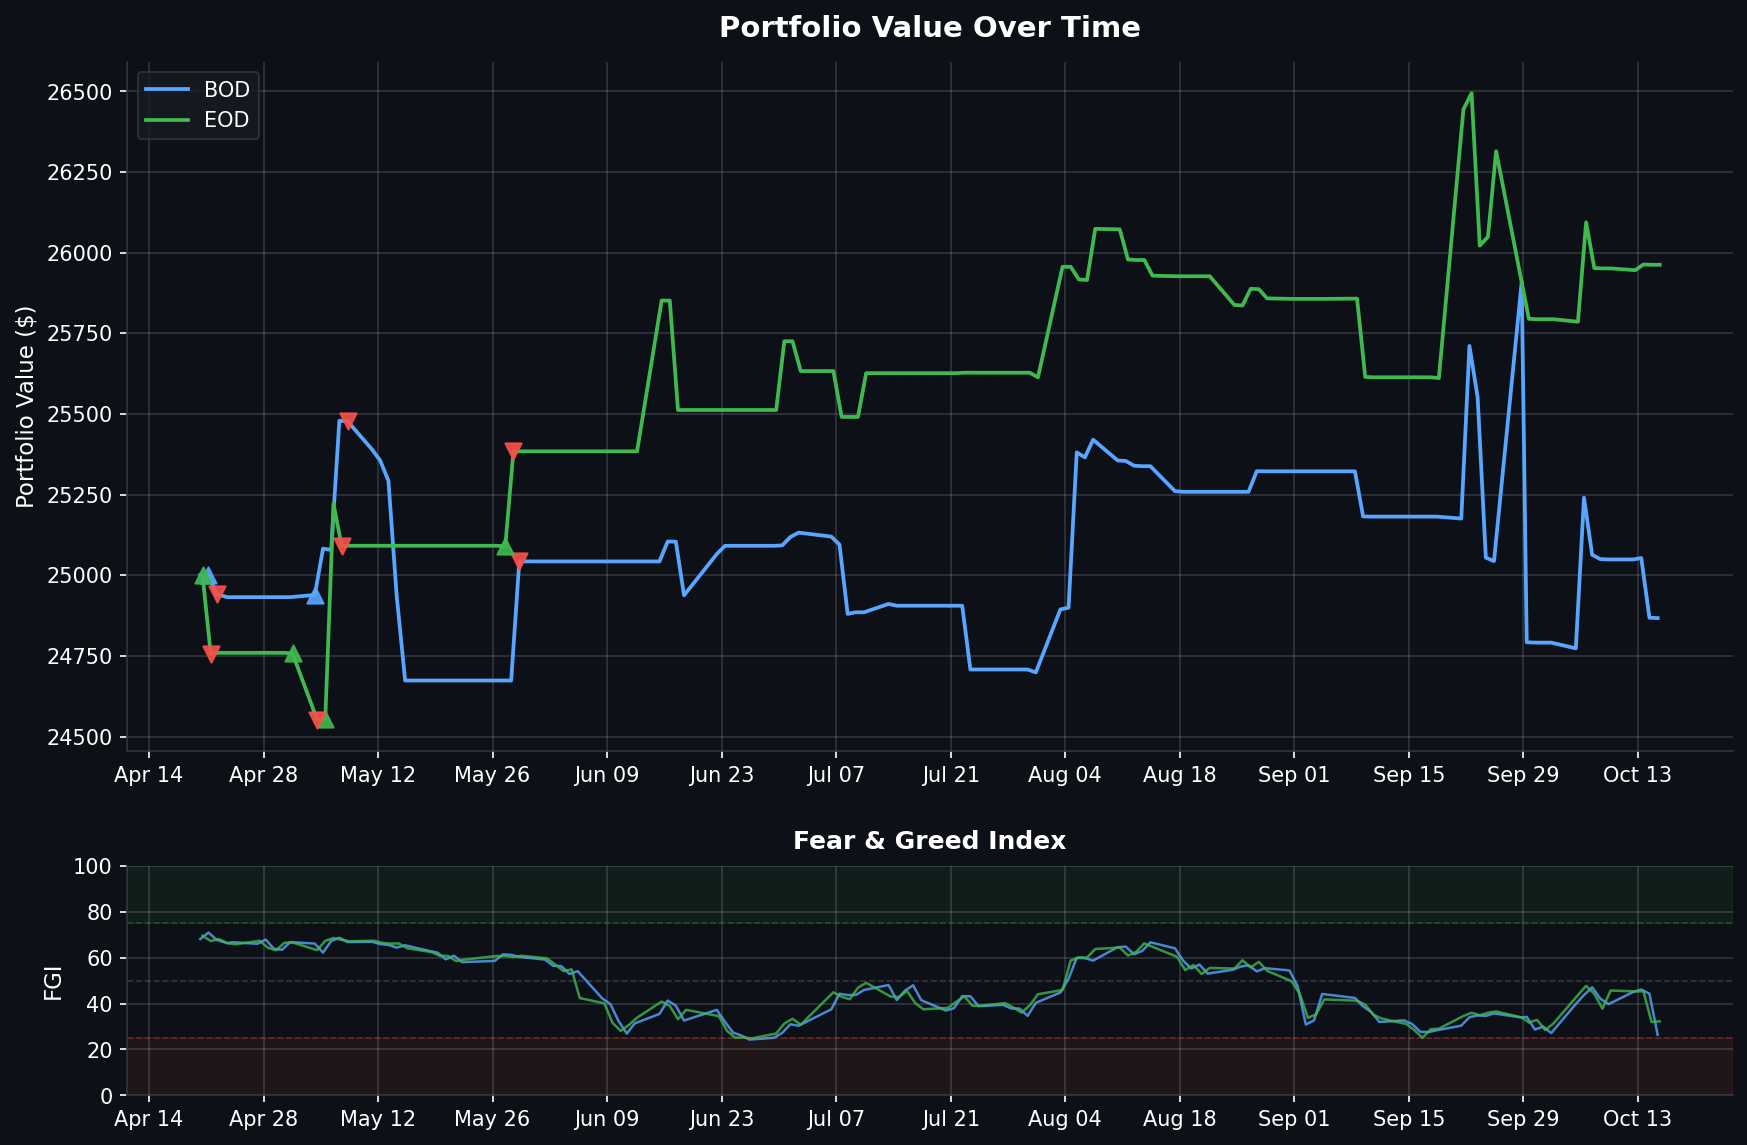
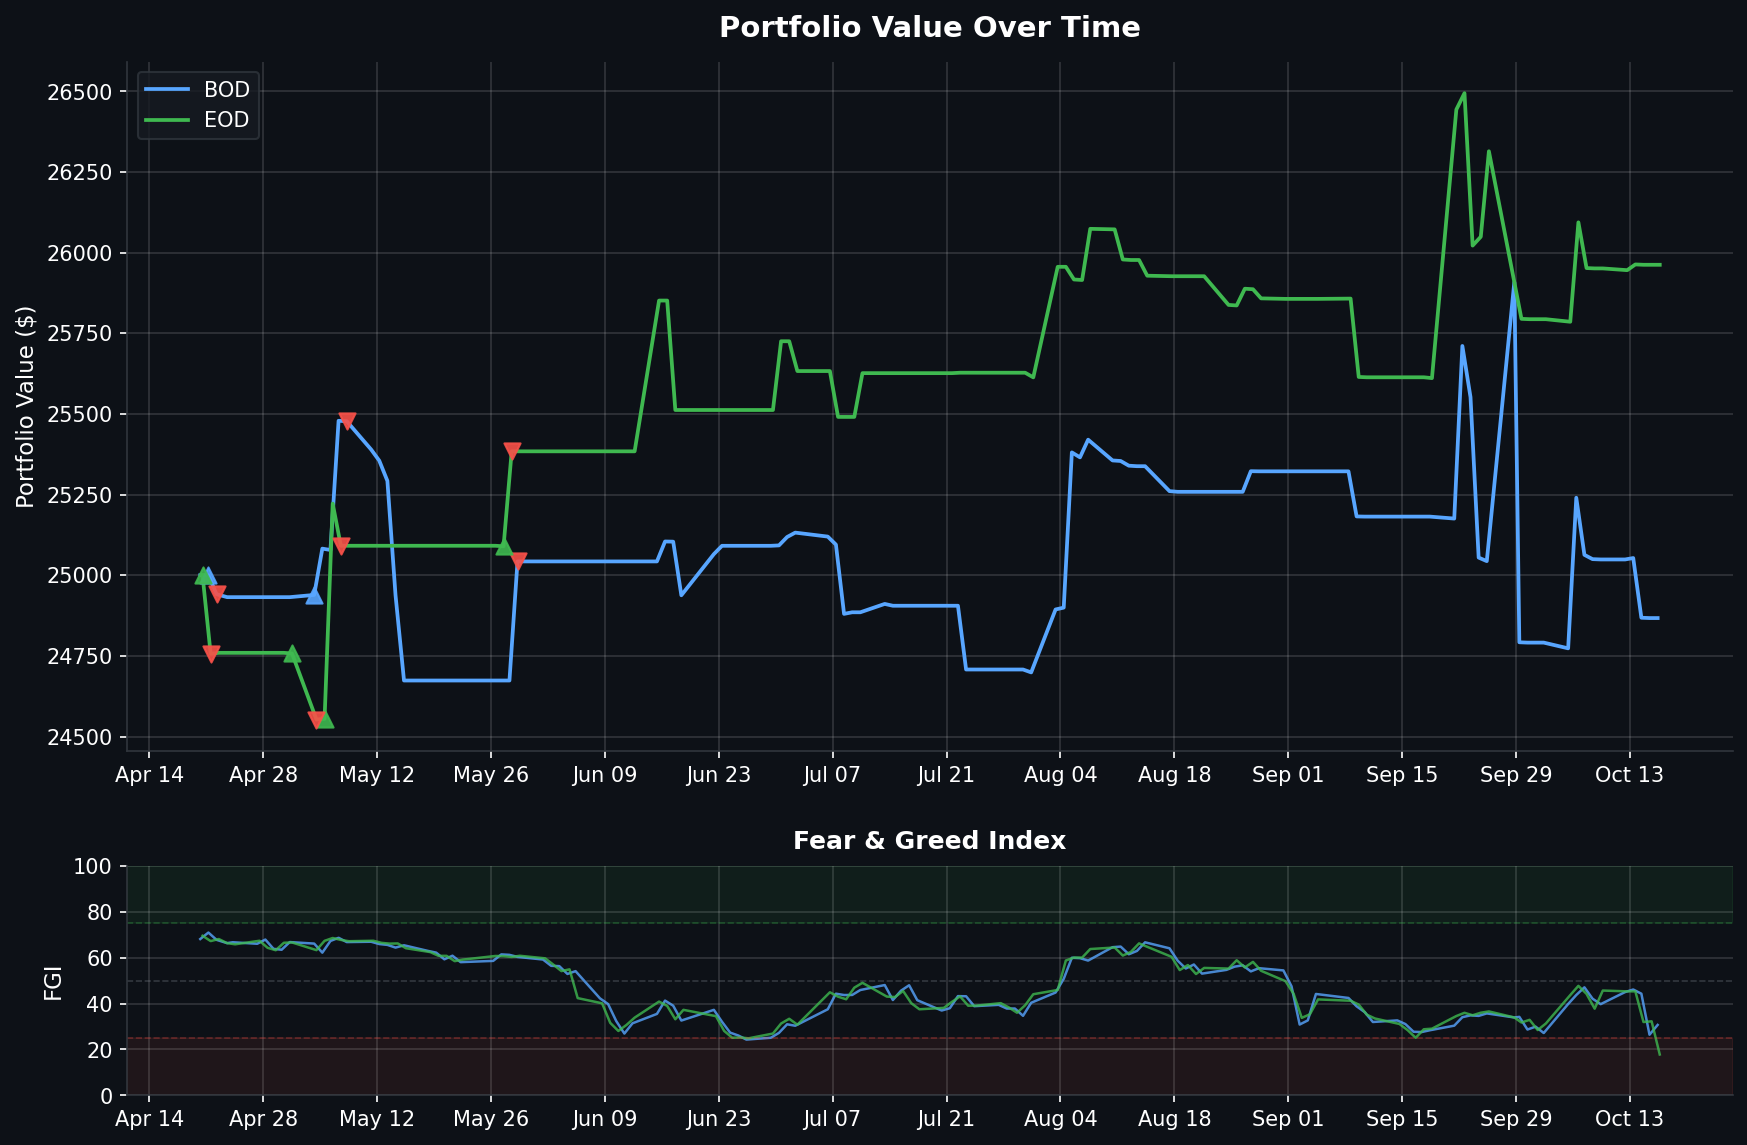
Daily data backup 2026-10-16

diff --git a/README.md b/README.md
@@ -1,6 +1,6 @@
 # Fear & Greed Index Trading Bot
 
-> Dashboard auto-updated daily at market close | Last update: **2026-10-15 13:30 PST**
+> Dashboard auto-updated daily at market close | Last update: **2026-10-16 13:30 PST**
 
 ![Portfolio Performance](assets/portfolio_chart.png)
 
@@ -12,12 +12,12 @@
 |--------|-------|
 | Portfolio Value | **$24,867.22** |
 | Buying Power | $99,468.88 |
-| Current FGI | 26.43 |
+| Current FGI | 30.69 |
 | Position | FLAT |
 | Total P&L | **$+995** |
 | Win Rate | 50% (1W / 1L) |
 | Total Round Trips | 2 |
-| Last Signal | NO_ACTION @ 2026-10-15 09:35 |
+| Last Signal | NO_ACTION @ 2026-10-16 09:35 |
 
 <details>
 <summary>Trade History (2 trades)</summary>
@@ -34,11 +34,11 @@
 
 | Time | Action | Price | FGI | Momentum | Velocity | Volatility | Reason |
 |------|--------|-------|-----|----------|----------|------------|--------|
+| 10-16 09:35 | NO_ACTION | $772.30 | 30.69 | -3.11 | -5.14 | 0.0963 | Insufficient momentum/velocity for entry |
 | 10-15 09:35 | NO_ACTION | $765.60 | 26.43 | -12.51 | -6.19 | 0.0978 | Insufficient momentum/velocity for entry |
 | 10-14 09:35 | NO_ACTION | $775.04 | 44.29 | -0.84 | 1.52 | 0.0957 | SELL incomplete - still holding 62 after 5 attempts |
 | 10-13 09:36 | NO_ACTION | $777.67 | 46.11 | 2.49 | 1.33 | 0.0964 | BUY did not fill after 3 attempts |
 | 10-12 09:35 | NO_ACTION | $778.58 | 45.0 | 2.72 | -0.69 | 0.0982 | Insufficient momentum/velocity for entry |
-| 10-09 09:35 | NO_ACTION | $776.56 | 39.74 | -3.23 | -1.32 | 0.0989 | Insufficient momentum/velocity for entry |
 
 </details>
 
@@ -50,12 +50,12 @@
 |--------|-------|
 | Portfolio Value | **$25,962.41** |
 | Buying Power | $103,849.64 |
-| Current FGI | 32.26 |
+| Current FGI | 17.82 |
 | Position | FLAT |
 | Total P&L | **$+302** |
 | Win Rate | 50% (2W / 2L) |
 | Total Round Trips | 4 |
-| Last Signal | NO_ACTION @ 2026-10-15 15:50 |
+| Last Signal | NO_ACTION @ 2026-10-16 15:50 |
 
 <details>
 <summary>Trade History (4 trades)</summary>
@@ -74,11 +74,11 @@
 
 | Time | Action | Price | FGI | Momentum | Velocity | Volatility | Reason |
 |------|--------|-------|-----|----------|----------|------------|--------|
+| 10-16 15:50 | NO_ACTION | $762.83 | 17.82 | -9.53 | -9.16 | 0.106 | Insufficient momentum/velocity for entry |
 | 10-15 15:50 | NO_ACTION | $771.67 | 32.26 | -4.25 | -4.35 | 0.0968 | Insufficient momentum/velocity for entry |
 | 10-14 15:50 | NO_ACTION | $768.97 | 31.96 | -8.90 | -4.57 | 0.1052 | Insufficient momentum/velocity for entry |
 | 10-13 15:50 | NO_ACTION | $778.38 | 45.31 | -0.12 | 2.51 | 0.0962 | SELL incomplete - still holding 66 after 5 attempts |
 | 10-12 15:51 | NO_ACTION | $777.98 | 45.31 | 2.40 | 0.37 | 0.0984 | BUY did not fill after 3 attempts |
-| 10-09 15:50 | NO_ACTION | $778.54 | 45.66 | 3.12 | -0.68 | 0.1003 | Insufficient momentum/velocity for entry |
 
 </details>
 
